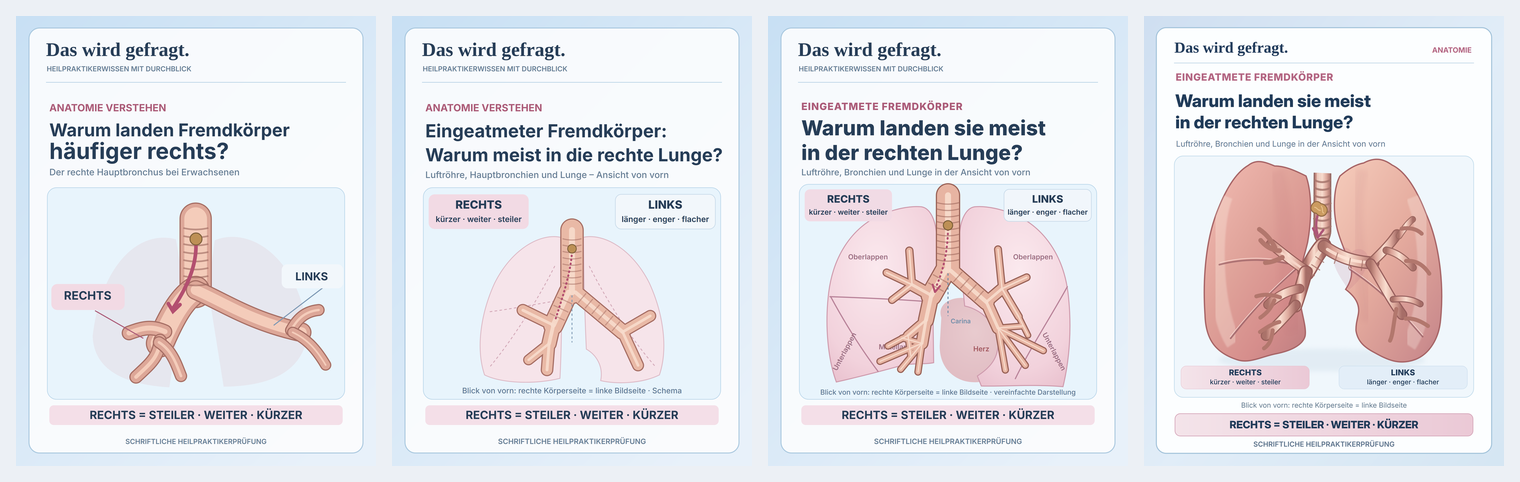
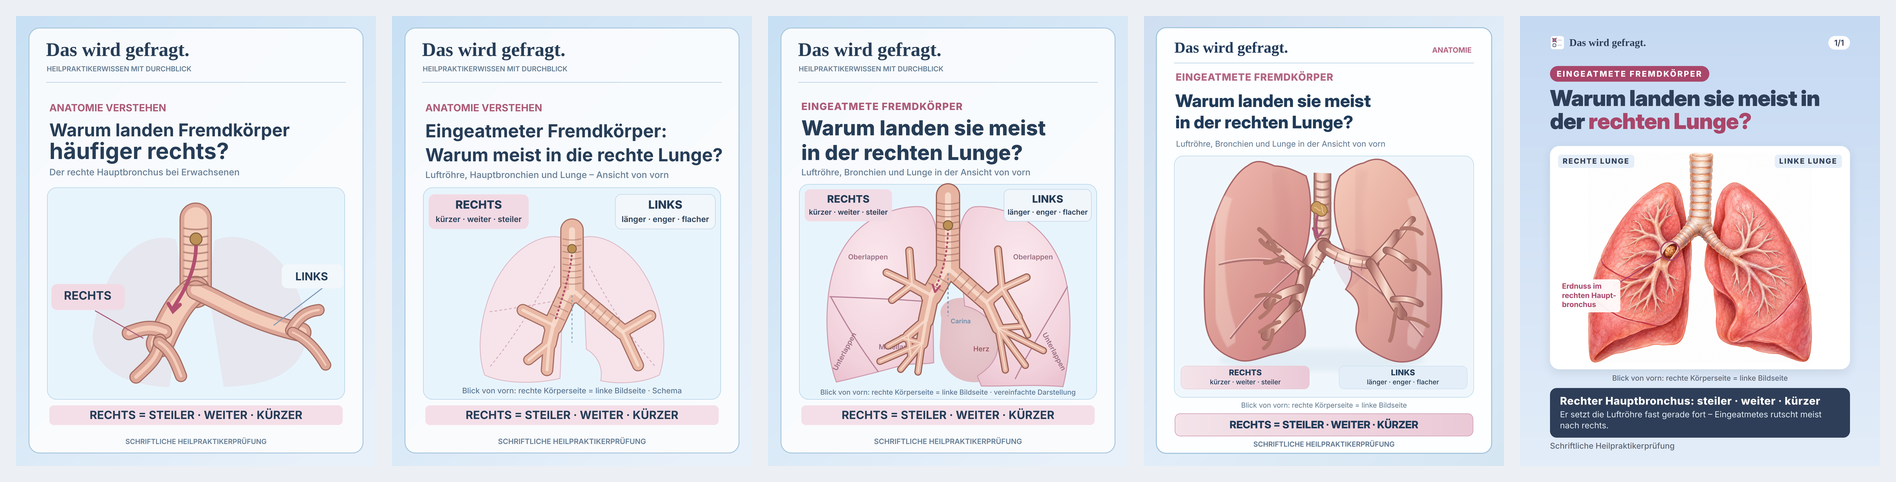
Bildmacher: Vorschaubilder erzeugt (Entwurf, keine Veröffentlichung)

diff --git a/entwuerfe/chatgpt-2026-11-bronchien-svg/VORSCHAU.md b/entwuerfe/chatgpt-2026-11-bronchien-svg/VORSCHAU.md
@@ -15,3 +15,6 @@
 
 ### folie_01_v3_chatgpt.png
 ![folie_01_v3_chatgpt.png](bilder/folie_01_v3_chatgpt.png)
+
+### folie_01_v4.png
+![folie_01_v4.png](bilder/folie_01_v4.png)
